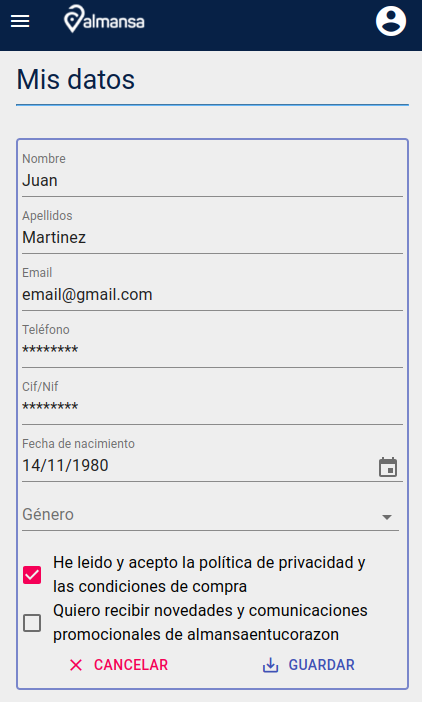
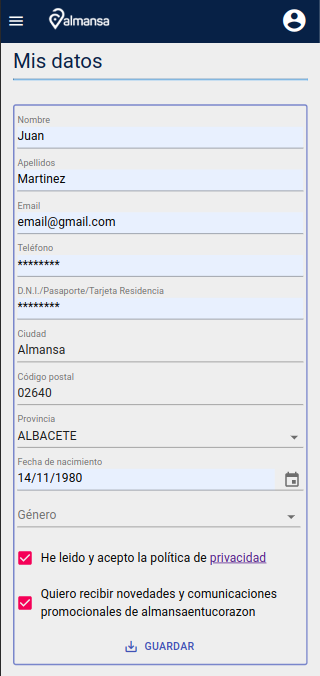
provincias

Changed region(s): [[0.0, 0.0, 1.0, 0.9941]]

diff --git a/comalma/usuarios/datosusuario.md b/comalma/usuarios/datosusuario.md
@@ -2,6 +2,8 @@
 
 ![Alt text](../images/misdatosconsumidor.png)
 
-Los clientes que accedan a la aplicación pondran gestionar sus datos personales desde el menu principal -> Mis datos
+Los clientes que acceden a la aplicación podrán gestionar sus datos personales desde el menú principal -> Mis datos
+
+![Alt text](../images/provinciasconsumidor.png)
 
 [Volver al Índice](../index.md)
